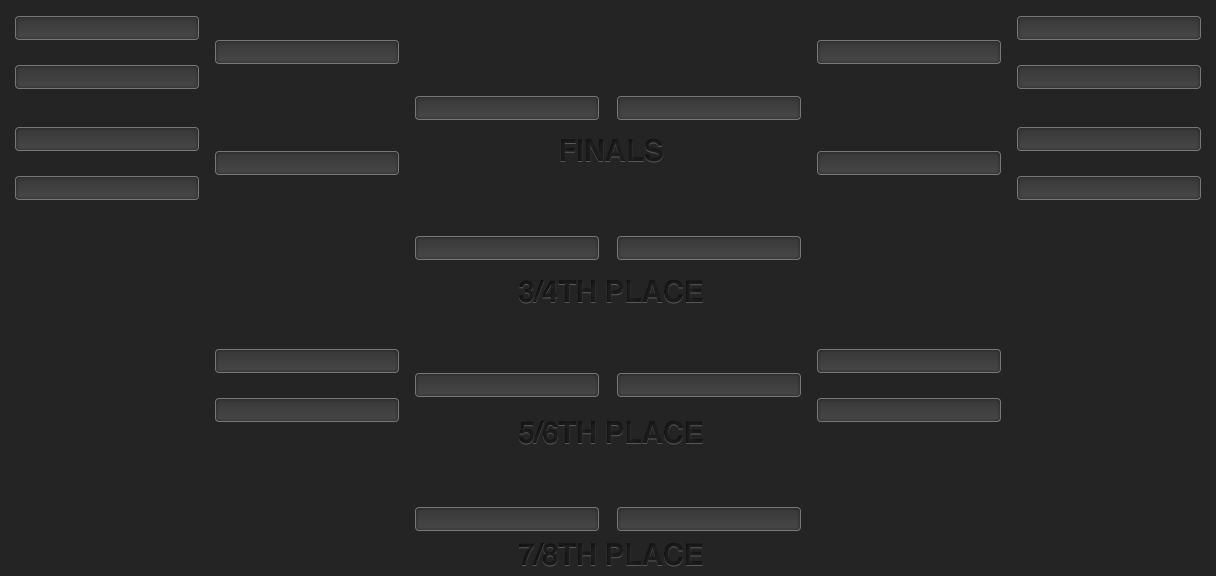
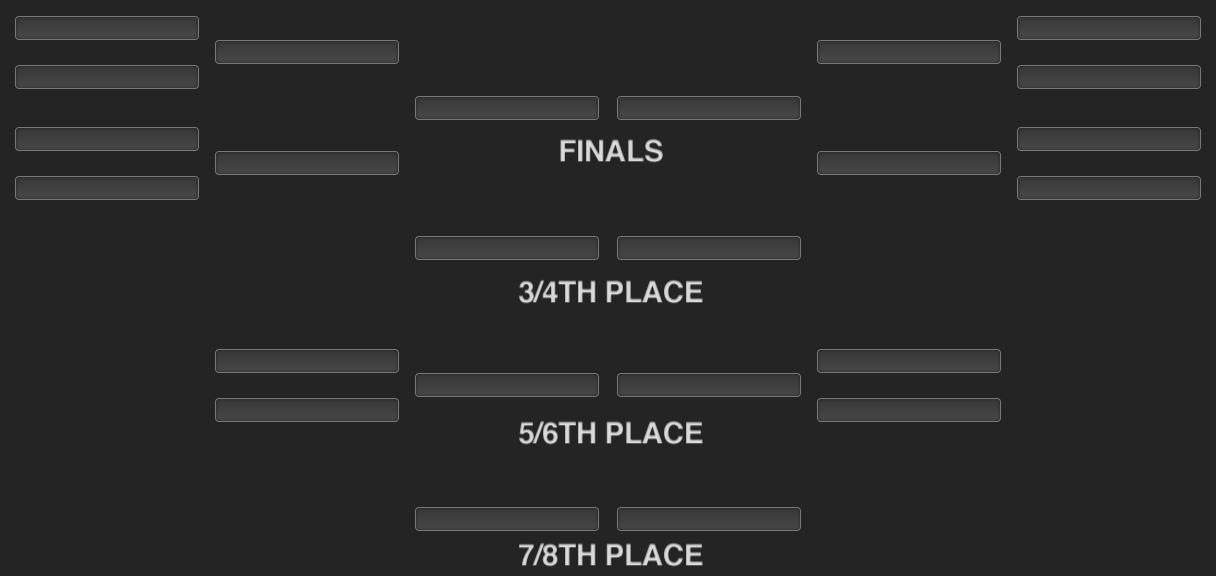
tweaks

diff --git a/js/view/bracket_view.js b/js/view/bracket_view.js
@@ -77,9 +77,13 @@ define([
             game.team_2_score = "-";
           }
           
-          div1.find('b').html(game.team_1);
+          var name1 = game.team_1 != null ? game.team_1.short_name : "";
+          var name2 = game.team_2 != null ? game.team_2.short_name : "";
+
+          
+          div1.find('b').html(name1);
           div1.find('em').html(game.team_1_score);
-          div2.find('b').html(game.team_2)
+          div2.find('b').html(name2)
           div2.find('em').html(game.team_2_score);
         }
       }
@@ -101,9 +105,12 @@ define([
         game.team_2_score = "-";
       }
       
-      div1.find('b').html(game.team_1);
+      var name1 = game.team_1 != null ? game.team_1.short_name : "";
+      var name2 = game.team_2 != null ? game.team_2.short_name : "";
+      
+      div1.find('b').html(name1);
       div1.find('em').html(game.team_1_score);
-      div2.find('b').html(game.team_2)
+      div2.find('b').html(name2)
       div2.find('em').html(game.team_2_score);
     },
     
@@ -150,8 +157,11 @@ define([
       this.place(game, 3, "right", 4, game.team_2, game.team_2_score);
     },
     
-    place: function(game, rn, pos, sn, gn, name, score) {
+    place: function(game, rn, pos, sn, gn, team, score) {
       var div = $("#bracket div.round"+rn+".spot"+sn+"."+pos);
+      
+      var name = team != null ? team.short_name : "";
+      
       div.find('b').html(name);
       div.find('em').html(score);
     }

diff --git a/templates/standings.html b/templates/standings.html
@@ -8,7 +8,7 @@
       <ul class="teamlist">
         <% _.each(left, function(rank){ %>
          <li>
-         		<div class="rank"><%= rank.ranking %></div>
+         		<div class="rank"><%= (rank.ranking+8) %></div>
          		<div class="results">
          		  <div class="wins"><%= rank.wins %></div>
          		  <div class="losses"><%=rank.losses%></div>
@@ -27,7 +27,7 @@
       <ul class="teamlist">
         <% _.each(right, function(rank){ %>
          <li>
-        		<div class="rank"><%= rank.ranking %></div>
+        		<div class="rank"><%= (rank.ranking+8) %></div>
         		<div class="results">
         		  <div class="wins"><%= rank.wins %></div>
         		  <div class="losses"><%=rank.losses%></div>

diff --git a/js/controller/tournament_controller.js b/js/controller/tournament_controller.js
@@ -135,7 +135,7 @@ define([
         $("#bracket").fadeIn();
       }
     }    
-    bracketFadeIntervalID = setInterval(inout, 20000);
+    bracketFadeIntervalID = setInterval(inout, 30000);
   };
   
   var onBracketPolling = function() {

diff --git a/style/elements/bracket.css b/style/elements/bracket.css
@@ -61,7 +61,7 @@
 #bracket div.info {
   width: 184px;
   padding-top: 6px;
-  color: #6B6B6B;
+  color: #D3D3D3;
   font-size: 14px;
   text-align: center;
 }
